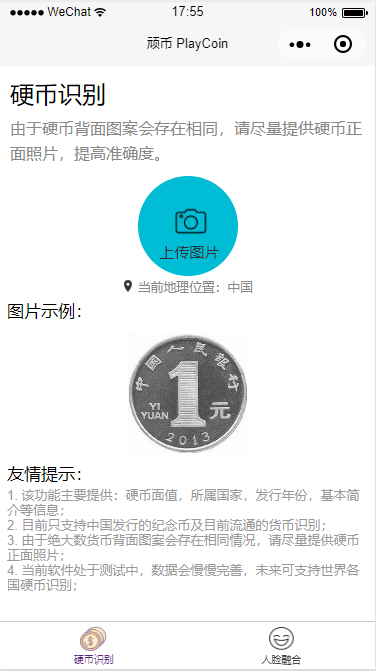
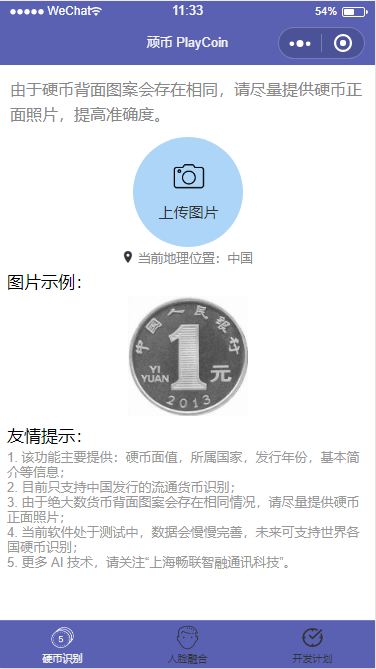
update the new release version v0.05

diff --git a/README.md b/README.md
@@ -11,12 +11,23 @@ You can scan below QR Code picture to run it on your WeChat.
 
 
 ### 1. Main Screenshot (主要界面截图)
-![主界面](https://github.com/BriceChou/wxapp/blob/master/screenshot/1.png)
+![硬币识别](https://github.com/BriceChou/wxapp/blob/master/screenshot/1.png)
 ![人脸融合](https://github.com/BriceChou/wxapp/blob/master/screenshot/2.png)
+![开发计划](https://github.com/BriceChou/wxapp/blob/master/screenshot/3.png)
 
 ### 2. Running Screenshot (程序运行截图)
-![主界面](https://github.com/BriceChou/wxapp/blob/master/screenshot/1.1.png)
+
+#### 2.1 Coin Recognize（硬币识别）
+
+![硬币识别](https://github.com/BriceChou/wxapp/blob/master/screenshot/1.1.png)
+![硬币识别](https://github.com/BriceChou/wxapp/blob/master/screenshot/1.1.1.png)
+![硬币识别](https://github.com/BriceChou/wxapp/blob/master/screenshot/1.1.2.png)
+![硬币识别](https://github.com/BriceChou/wxapp/blob/master/screenshot/1.1.3.png)
+
+#### 2.2 Face Merge (人脸融合)
+
 ![人脸融合](https://github.com/BriceChou/wxapp/blob/master/screenshot/2.1.png)
+![人脸融合](https://github.com/BriceChou/wxapp/blob/master/screenshot/2.1.1.png)
 
 ### 3. Applied Technology Components (使用的技术方法)
 
